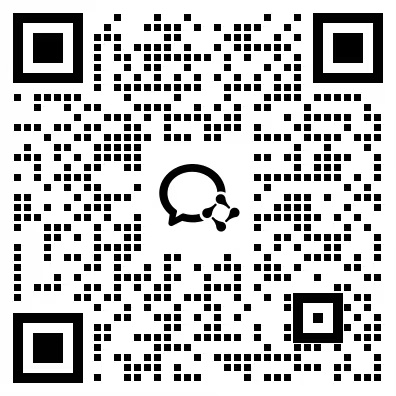
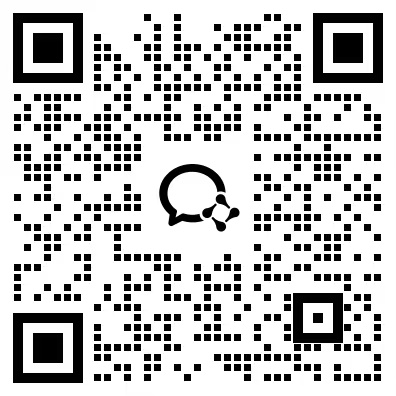
更新交流群二维码并刷新全部路径

diff --git a/docs/.vitepress/theme/components/GroupQrMenu.vue b/docs/.vitepress/theme/components/GroupQrMenu.vue
@@ -13,7 +13,7 @@ withDefaults(
   <figure class="wb-group-qr" :class="{ 'is-screen-menu': screenMenu }">
     <div class="wb-group-qr__frame">
       <img
-        src="/community/workbuddy-wechat-group-20261019.jpg"
+        src="/community/workbuddy-wechat-group-20261115.jpg"
         width="396"
         height="396"
         alt="WorkBuddy 微信交流群二维码"
